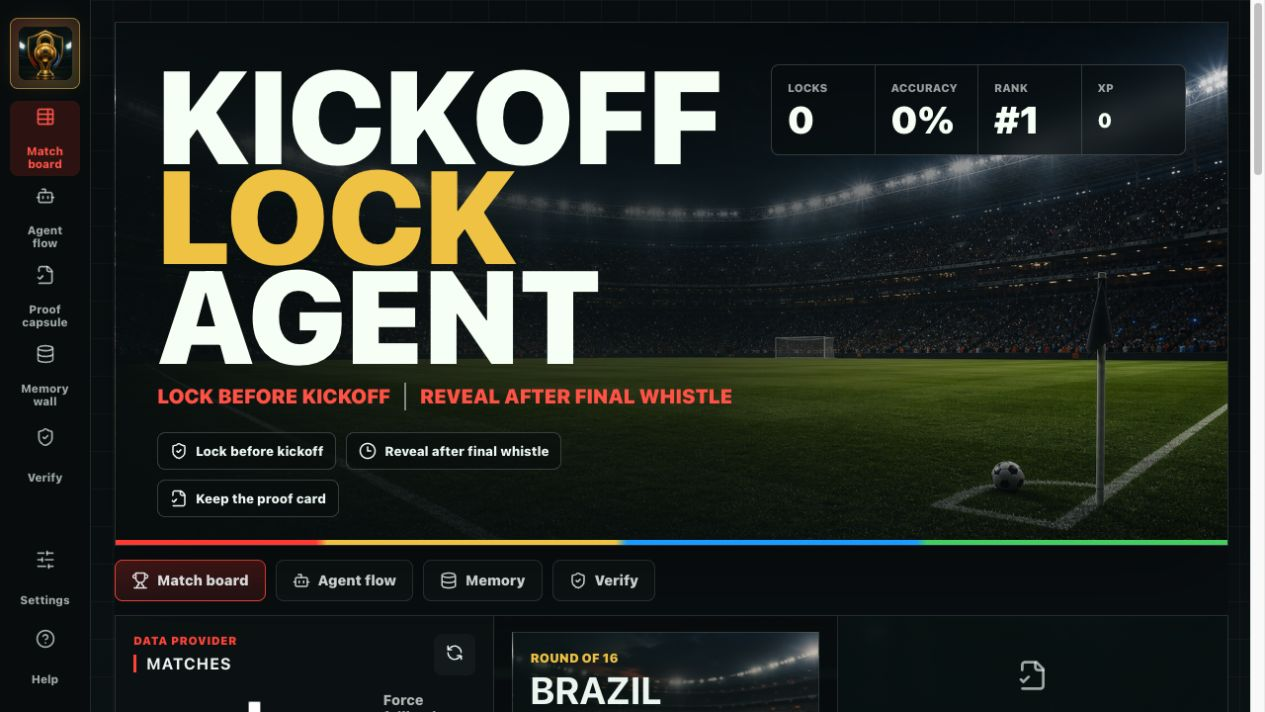
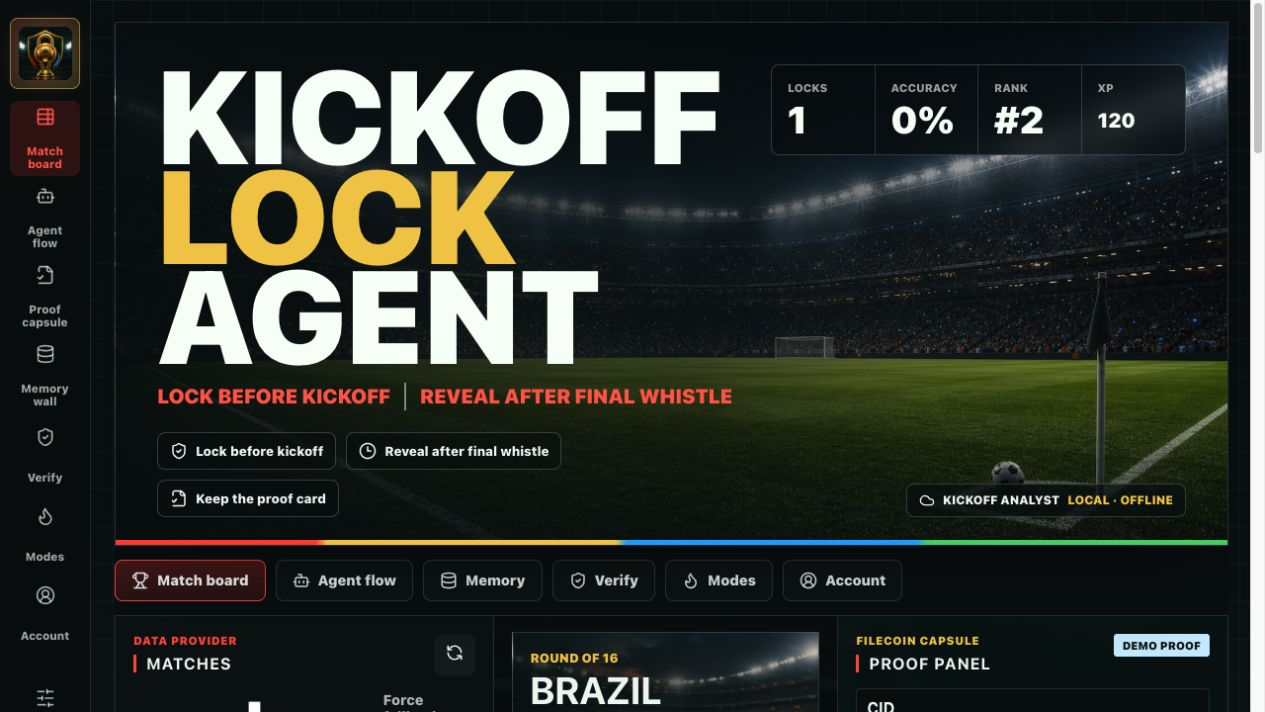
Deploy cloud sync and proof workflows

diff --git a/index.html b/index.html
@@ -11,8 +11,8 @@
     <link rel="apple-touch-icon" href="assets/kickoff-lock-icon.png" />
     <meta property="og:image" content="assets/kickoff-lock-icon.png" />
     <title>Kickoff Lock Agent</title>
-    <script type="module" crossorigin src="/kickoff-lock-agent/assets/index-D0I4QlqO.js"></script>
-    <link rel="stylesheet" crossorigin href="/kickoff-lock-agent/assets/index-8Ftqyda8.css">
+    <script type="module" crossorigin src="/kickoff-lock-agent/assets/index-DDiqgR4w.js"></script>
+    <link rel="stylesheet" crossorigin href="/kickoff-lock-agent/assets/index-D7qo0IAJ.css">
   </head>
   <body>
     <div id="root"></div>

diff --git a/assets/index-D7qo0IAJ.css b/assets/index-D7qo0IAJ.css
@@ -1,0 +1,1 @@
+:root{font-family:Inter,ui-sans-serif,system-ui,-apple-system,BlinkMacSystemFont,Segoe UI,sans-serif;color:#eef7f3;background:#03080a;font-synthesis:none;text-rendering:optimizeLegibility;-webkit-font-smoothing:antialiased}*{box-sizing:border-box}body{margin:0;min-width:320px;min-height:100vh;background:linear-gradient(90deg,rgba(255,255,255,.035) 1px,transparent 1px),linear-gradient(180deg,rgba(255,255,255,.035) 1px,transparent 1px),linear-gradient(180deg,#050b0e,#071415 44%,#03080a);background-size:38px 38px,38px 38px,auto}button,input,textarea{font:inherit}button{border:0;cursor:pointer}button:disabled,input:disabled,textarea:disabled{cursor:not-allowed;opacity:.54}h1,h2,h3,p{margin-top:0}h1{display:grid;gap:0;max-width:760px;margin-bottom:18px;font-size:clamp(4rem,10.4vw,10.2rem);font-weight:950;line-height:.76;letter-spacing:0;text-transform:uppercase}h1 span:nth-child(2){color:#f1c94d}h2{margin-bottom:0;font-size:1.02rem;line-height:1.08;letter-spacing:.06em;text-transform:uppercase}h3{margin-bottom:8px}.shell{position:relative;width:min(1680px,100%);min-height:100vh;margin:0 auto;padding:22px 22px 22px 116px}.side-rail{position:fixed;z-index:20;top:0;bottom:0;left:max(0px,calc((100vw - 1680px)/2));width:92px;display:grid;grid-template-rows:auto repeat(7,auto) 1fr repeat(2,auto);gap:4px;padding:18px 10px;border-right:1px solid rgba(238,247,243,.12);background:#03080aeb;-webkit-backdrop-filter:blur(18px);backdrop-filter:blur(18px)}.rail-mark{display:grid;place-items:center;height:72px;margin-bottom:8px;border:1px solid rgba(241,201,77,.5);border-radius:8px;background:linear-gradient(135deg,#d2372e33,#f1c94d1f),#0a1416;color:#f1c94d}.rail-mark img{width:54px;height:54px;border-radius:8px;object-fit:cover;box-shadow:0 0 22px #f1c94d38}.side-rail button{display:grid;place-items:center;gap:7px;min-height:76px;border-radius:8px;background:transparent;color:#eef7f3ad;font-size:.72rem;font-weight:800}.side-rail button.active,.side-rail button:hover{background:#d2372e2e;color:#ff5b4e}.rail-spacer{min-height:20px}.hero{position:relative;display:grid;grid-template-columns:minmax(0,1fr) 420px;gap:24px;align-items:end;min-height:350px;padding:42px 42px 28px;overflow:hidden;color:#f7fff6;background-size:cover;background-position:center;border:1px solid rgba(238,247,243,.14);border-radius:0;box-shadow:0 28px 90px #0000005c}.hero:after{position:absolute;inset:auto 0 0;height:5px;background:linear-gradient(90deg,#ff4038,#ff4038 18%,#f1c94d 19%,#f1c94d 45%,#1aa6ff 46%,#1aa6ff 72%,#4fd36d 73%,#4fd36d);content:""}.hero-copy-block,.hero-panel{position:relative;z-index:1}.cloud-strip{position:absolute;right:42px;bottom:28px;z-index:1;display:inline-flex;align-items:center;gap:8px;min-height:34px;padding:8px 12px;border:1px solid rgba(238,247,243,.18);border-radius:8px;background:#03080ab8;color:#eef7f3;font-size:.76rem;font-weight:900;text-transform:uppercase}.cloud-strip b{color:#f1c94d}.hero-copy{display:flex;flex-wrap:wrap;align-items:center;gap:14px;margin-bottom:0;color:#ff5b4e;font-size:clamp(1rem,1.8vw,1.28rem);font-weight:950;line-height:1.2;text-transform:uppercase}.hero-copy i{width:2px;height:28px;background:#eef7f380}.hero-copy:after{color:#22b9ff}.hero-signals{display:flex;flex-wrap:wrap;gap:10px;margin-top:22px}.hero-signals span{display:inline-flex;align-items:center;gap:8px;min-height:38px;padding:8px 12px;border:1px solid rgba(238,247,243,.2);border-radius:8px;background:#03080aa3;color:#eef7f3;font-size:.82rem;font-weight:850}.hero-panel{align-self:start;display:grid;grid-template-columns:repeat(4,minmax(0,1fr));overflow:hidden;border:1px solid rgba(238,247,243,.18);border-radius:8px;background:#03080ab8;-webkit-backdrop-filter:blur(14px);backdrop-filter:blur(14px)}.hero-panel>div{display:grid;gap:7px;min-width:0;padding:16px;border-right:1px solid rgba(238,247,243,.16)}.hero-panel>div:last-child{border-right:0}.metric{font-size:clamp(1.65rem,3vw,2.45rem);font-weight:950;line-height:1}.source-metric{font-size:clamp(1rem,1.6vw,1.45rem);text-transform:capitalize}.label{color:#eef7f39e;font-size:.7rem;font-weight:900;text-transform:uppercase}.eyebrow{margin:0 0 8px;color:#ff4d40;font-size:.72rem;font-weight:950;letter-spacing:.04em;text-transform:uppercase}.tabs{display:flex;gap:10px;width:100%;max-width:100%;margin:0;padding:14px 0;overflow-x:auto;background:#050b0e}.tabs button,.actions button,.proof-panel button,.reveal-box button{display:inline-flex;align-items:center;justify-content:center;gap:8px;min-height:42px;padding:10px 16px;border:1px solid rgba(238,247,243,.14);border-radius:8px;background:#111b1d;color:#eef7f3;font-size:.9rem;font-weight:900}.tabs button{flex:0 0 auto;background:#0a1315eb}.tabs button.active{border-color:#ff4d40;background:linear-gradient(180deg,#d2372e52,#d2372e24);color:#fff}.notice,.warning{padding:12px 14px;margin-bottom:12px;border:1px solid rgba(241,201,77,.26);border-radius:8px;background:#141812f0;color:#f1c94d;font-weight:850}.warning{border-color:#ff4d404d;background:#2f0e0cf0;color:#ffb3ad}.workspace{display:grid;grid-template-columns:34% minmax(0,1fr) 35%;gap:0;align-items:stretch;border:1px solid rgba(238,247,243,.13);background:#071011}.panel{min-width:0;padding:18px;border:0;border-right:1px solid rgba(238,247,243,.13);border-radius:0;background:#071011f5;box-shadow:none}.panel:last-child{border-right:0}.panel-head{display:flex;align-items:flex-start;justify-content:space-between;gap:12px;margin-bottom:16px}.panel-head h2:before,.memory .panel-head h2:before{display:inline-block;width:3px;height:18px;margin-right:10px;background:#ff4d40;vertical-align:-3px;content:""}.icon-button{width:42px;height:42px;padding:0;border-radius:8px;background:#111b1d;color:#eef7f3}.toggle-row{display:flex;align-items:center;gap:8px;margin-bottom:14px;color:#eef7f3b8;font-size:.9rem;font-weight:850}.filter-row{display:grid;grid-template-columns:repeat(4,minmax(0,1fr));gap:6px;margin-bottom:14px}.filter-row button{min-height:34px;border:1px solid rgba(238,247,243,.12);border-radius:4px;background:#eef7f312;color:#eef7f3b3;font-size:.72rem;font-weight:950;text-transform:uppercase}.filter-row button.active{border-color:#f1c94d;background:#f1c94d29;color:#f1c94d}.empty-inline{margin:0;padding:14px;border:1px solid rgba(238,247,243,.12);color:#eef7f3a8}.match-list{display:grid;gap:10px;max-height:720px;overflow-y:auto;padding-right:4px}.match-card{width:100%;min-height:116px;display:grid;grid-template-columns:auto 1fr auto;align-content:center;align-items:center;gap:6px 12px;padding:14px;border:1px solid rgba(238,247,243,.14);border-radius:0;color:#eef7f3;text-align:left;background-size:cover;background-position:center;box-shadow:inset 0 -70px 90px #020809a3}.match-card.selected{outline:2px solid #f1c94d;border-color:#f1c94d}.match-card strong{grid-column:1 / -1;font-size:1.05rem;line-height:1.2;text-transform:uppercase}.match-card span:not(.status):not(.source){grid-column:1 / 3;color:#eef7f3b8;font-size:.86rem}.status,.source,.pill,.score-badge{width:fit-content;border-radius:3px;padding:5px 9px;font-size:.7rem;font-weight:950;text-transform:uppercase;background:#f1c94d;color:#14120a}.status.locked,.pill.demo{background:#cdeeff;color:#12394a}.status.revealed,.pill.real{background:#d8ffd9;color:#0e4d28}.status.finished,.late{background:#ffd6d1;color:#7a241c}.source{grid-column:3;background:#eef7f324;color:#eef7f3d1}.flow-panel{color:#eef7f3;background-size:cover;background-position:top center}.match-spotlight{min-height:126px;display:flex;align-items:end;justify-content:space-between;gap:16px;margin:-2px 0 18px;padding:18px;border:1px solid rgba(238,247,243,.14);border-radius:0;color:#eef7f3;background-size:cover;background-position:center}.match-spotlight span{display:block;margin-bottom:6px;color:#f1c94d;font-size:.8rem;font-weight:950;text-transform:uppercase}.match-spotlight strong{display:block;font-size:clamp(1.55rem,3vw,2.55rem);line-height:1;text-transform:uppercase}.match-spotlight b{flex:0 0 auto;padding:8px 10px;border:1px solid rgba(238,247,243,.22);border-radius:4px;background:#04100fb3}.scoreboard-lock{display:grid;grid-template-columns:minmax(0,1fr) 150px minmax(0,1fr);min-height:112px;margin-bottom:12px;border:1px solid rgba(238,247,243,.16);background:#03080ab3}.lock-window{display:grid;grid-template-columns:repeat(3,minmax(0,1fr));gap:10px;margin-bottom:14px}.lock-window>div{display:grid;grid-template-columns:auto 1fr;gap:4px 9px;align-items:center;padding:12px;border:1px solid rgba(238,247,243,.13);border-radius:4px;background:#03080aa8}.lock-window svg{grid-row:span 2;color:#f1c94d}.lock-window span{color:#eef7f399;font-size:.72rem;font-weight:950;text-transform:uppercase}.lock-window strong{min-width:0;color:#eef7f3;overflow-wrap:anywhere}.lock-closed,.lock-closing{border-color:#ff4d4047!important}.lock-closed strong,.lock-closing strong{color:#ffb3ad}.intel-panel,.market-builder{margin-bottom:14px;padding:14px;border:1px solid rgba(238,247,243,.13);background:#040e0fc7}.intel-head{display:flex;justify-content:space-between;gap:12px;margin-bottom:12px}.intel-head span{max-width:170px;color:#eef7f38a;font-size:.72rem;font-weight:850;text-align:right}.intel-grid{display:grid;grid-template-columns:repeat(2,minmax(0,1fr));gap:10px}.intel-grid>div{display:grid;gap:6px;padding:12px;border:1px solid rgba(238,247,243,.12);background:#eef7f30f}.intel-grid strong{color:#f1c94d;text-transform:uppercase}.intel-grid span,.intel-grid small,.intel-notes p{color:#eef7f3ad}.intel-grid b{color:#ff5b4e;letter-spacing:.08em}.intel-notes{display:grid;gap:8px;margin-top:10px}.intel-notes p{display:flex;gap:10px;margin:0}.intel-notes b{flex:0 0 58px;color:#22b9ff}.team-tile,.score-tile{display:grid;place-items:center;padding:14px;text-align:center;font-weight:950;text-transform:uppercase}.team-tile.home{background:linear-gradient(90deg,#d2372ed1,#d2372e47)}.team-tile.away{background:linear-gradient(90deg,#1aa6ff47,#1aa6ffcc)}.score-tile{border-inline:1px solid rgba(238,247,243,.16)}.score-tile strong{font-size:2.05rem}.score-tile span{color:#ff4d40;font-size:.78rem}.agent-tabs{display:grid;grid-template-columns:repeat(3,1fr);margin-bottom:14px;border:1px solid rgba(238,247,243,.13)}.agent-tabs span{padding:10px;color:#eef7f38c;text-align:center;font-size:.76rem;font-weight:950;text-transform:uppercase}.agent-tabs .active{color:#ff4d40;border-bottom:2px solid #ff4d40}.market-builder .panel-head{margin-bottom:10px}.market-grid{display:grid;grid-template-columns:repeat(2,minmax(0,1fr));gap:10px}.market-grid article{padding:12px;border:1px solid rgba(238,247,243,.12);background:#eef7f30f}.market-grid textarea{min-height:76px}label{display:grid;gap:7px;margin-bottom:12px;font-weight:850}label span{color:#eef7f3b3;font-size:.86rem}textarea,input{width:100%;min-width:0;border:1px solid rgba(238,247,243,.16);border-radius:4px;background:#03080ab3;color:#eef7f3;padding:12px;outline:none}textarea:focus,input:focus{border-color:#1aa6ff;box-shadow:0 0 0 3px #1aa6ff2e}textarea{min-height:112px;resize:vertical}input[type=range]{padding:0;accent-color:#ff4d40}.agent-grid{display:grid;grid-template-columns:1.1fr .9fr;gap:14px}.score-inputs{display:grid;grid-template-columns:repeat(2,minmax(0,1fr));gap:12px}.score-inputs label:last-child{grid-column:1 / -1}.actions{display:flex;flex-wrap:wrap;gap:10px;margin-top:14px}.primary{min-height:54px!important;background:linear-gradient(180deg,#e8463c,#b82721)!important;box-shadow:0 12px 28px #d2372e57;text-transform:uppercase}.reveal-box{margin-top:18px;padding:16px;border:1px solid rgba(238,247,243,.14);border-radius:0;background:#0b1c17d1}.score-badge{font-size:1rem;background:#f1c94d}.breakdown{display:flex;flex-wrap:wrap;gap:8px;margin-top:12px}.breakdown span{padding:7px 9px;border-radius:4px;background:#eef7f31f;font-weight:850}.breakdown p{width:100%;margin:0;color:#eef7f3bd}.agent-review{width:100%;display:grid;gap:7px;margin-top:6px;padding:12px;border:1px solid rgba(241,201,77,.22);background:#f1c94d14}.agent-review strong{color:#f1c94d}.agent-review p{color:#eef7f3c7}.proof-panel{color:#eef7f3;background-size:cover;background-position:center}.proof-panel .eyebrow,.proof-panel label span,.proof-panel summary{color:#f1c94d}.proof-panel .pill{color:#0b1614}.proof-lines{display:grid;gap:8px}.proof-lines p{display:grid;gap:4px;margin:0;padding:10px;border:1px solid rgba(238,247,243,.12);border-radius:4px;background:#03080aad}.proof-lines span,code{overflow-wrap:anywhere;font-family:SFMono-Regular,Consolas,monospace;font-size:.8rem}.proof-card{margin:16px 0;padding:18px;border:1px solid rgba(241,201,77,.42);border-radius:0;background:linear-gradient(135deg,#fffcebf5,#ffeecceb),#fff7dc;color:#121814;box-shadow:0 16px 38px #00000042}.proof-card-top,.versus{display:flex;justify-content:space-between;gap:10px}.proof-card-top span{padding:5px 8px;border-radius:4px;background:#d2372e1f;color:#9e2d24;font-size:.78rem;font-weight:950}.proof-card h3{margin:16px 0;font-size:1.6rem;text-transform:uppercase}.versus>div{flex:1;padding:12px;border:1px solid rgba(17,28,25,.12);border-radius:4px;background:#ffffff94}.versus small,.proof-card p{color:#111c19ad}.versus strong{display:block;margin-top:4px;font-size:1.55rem}.proof-card code{display:block;margin-top:14px;color:#0f5b33}.proof-markets{display:flex;flex-wrap:wrap;gap:7px;margin-bottom:12px}.proof-markets span{padding:6px 8px;border-radius:4px;background:#111c191a;color:#111c19c7;font-size:.76rem;font-weight:850}.proof-actions{display:grid;grid-template-columns:1fr;gap:8px}.seal-steps{display:grid;gap:8px;margin-top:14px;padding:12px;border:1px solid rgba(238,247,243,.13);background:#03080aa3}.seal-steps article{display:grid;grid-template-columns:auto minmax(0,1fr) auto;gap:10px;align-items:center;padding:10px;border:1px solid rgba(238,247,243,.1);background:#eef7f30f}.seal-steps strong,.seal-steps b{color:#f1c94d}.seal-steps span{display:block;margin-top:3px;color:#eef7f39e;font-size:.78rem}.share-preview{display:grid;gap:10px;margin-top:14px;padding:12px;border:1px solid rgba(241,201,77,.22);background:#f1c94d14}.share-preview a{display:inline-flex;align-items:center;gap:7px;color:#f1c94d;font-size:.8rem;font-weight:950;text-decoration:none}.share-preview img{display:block;width:100%;border:1px solid rgba(238,247,243,.16)}.proof-panel textarea,.proof-panel input{border-color:#eef7f333;background:#03080ab8}details{margin-top:12px}summary{cursor:pointer;font-weight:950}pre{max-width:100%;max-height:260px;overflow:auto;overflow-wrap:anywhere;padding:12px;border-radius:4px;background:#03080a;color:#bdf28c;font-size:.78rem}.empty{display:grid;place-items:center;min-height:260px;text-align:center;color:#eef7f3a8}.memory{margin-top:16px;border:1px solid rgba(238,247,243,.13)}.memory-hero{min-height:210px;display:flex;align-items:end;margin-bottom:18px;padding:20px;border:1px solid rgba(238,247,243,.14);border-radius:0;color:#eef7f3;background-size:cover;background-position:center}.memory-hero span{display:block;margin-bottom:8px;color:#f1c94d;font-size:.8rem;font-weight:950;text-transform:uppercase}.memory-hero strong{display:block;max-width:620px;font-size:clamp(1.8rem,4vw,3.5rem);line-height:.95;text-transform:uppercase}.memory-stats{display:grid;grid-template-columns:repeat(3,minmax(0,1fr));gap:12px;margin-bottom:16px}.memory-stats div{display:grid;gap:4px;padding:14px;border:1px solid rgba(238,247,243,.12);border-radius:4px;background:#eef7f314}.memory-stats strong{font-size:2rem}.memory-list{display:grid;gap:10px}.leaderboard{display:grid;gap:8px;margin-bottom:16px;padding:14px;border:1px solid rgba(238,247,243,.12);background:#03080a80}.leaderboard article{display:grid;grid-template-columns:48px 1fr auto;gap:10px;align-items:center;padding:10px;border:1px solid rgba(238,247,243,.1);background:#eef7f30f}.leaderboard b,.leaderboard strong{color:#f1c94d}.verify,.modes,.account{margin-top:16px;border:1px solid rgba(238,247,243,.13)}.mode-grid,.account-grid{display:grid;grid-template-columns:repeat(2,minmax(0,1fr));gap:14px}.mode-grid article,.profile-card,.cloud-card,.mode-rules{padding:16px;border:1px solid rgba(238,247,243,.12);background:#eef7f312}.mode-top{display:flex;justify-content:space-between;gap:12px;margin-bottom:12px}.mode-grid h3,.cloud-card h3{color:#f1c94d;text-transform:uppercase}.mode-grid p,.cloud-card p,.mode-rules p{color:#eef7f3b8}.progress-track{height:8px;overflow:hidden;margin:16px 0 8px;border-radius:99px;background:#eef7f31f}.progress-track span{display:block;height:100%;background:linear-gradient(90deg,#ff4d40,#f1c94d,#1aa6ff)}.mode-grid small{display:block;margin-top:8px;color:#eef7f399}.mode-rules{margin-top:14px}.profile-card,.cloud-card{display:grid;gap:12px}.schema-note{display:grid;gap:7px;padding:12px;border:1px solid rgba(241,201,77,.2);background:#f1c94d14}.schema-note strong{color:#f1c94d}.verify-grid{display:grid;grid-template-columns:minmax(0,1fr) .85fr;gap:14px;min-width:0}.verify-card,.verify-checks{min-width:0;padding:14px;border:1px solid rgba(238,247,243,.12);background:#eef7f312}.verify-card:last-child{grid-column:1 / -1}.verify-card h3{color:#f1c94d;text-transform:uppercase}.verify-checks{display:grid;gap:8px}.verify-checks article{display:grid;grid-template-columns:auto minmax(0,1fr) auto;min-width:0;gap:10px;align-items:center;padding:10px;border:1px solid rgba(216,255,217,.13);background:#d8ffd912}.verify-checks svg,.verify-checks strong{color:#74ed88}.verify-card code,.verify-checks span{max-width:100%;overflow-wrap:anywhere;word-break:break-word}.verify-card code{display:block;margin-top:10px}.memory-list article{display:flex;gap:10px;align-items:flex-start;padding:12px;border:1px solid rgba(238,247,243,.12);border-radius:4px;background:#eef7f314}.memory-list span{display:block;margin-top:4px;color:#eef7f3a6}@media(max-width:1180px){.shell{padding-left:104px}.hero,.workspace{grid-template-columns:1fr}.hero-panel{grid-template-columns:repeat(4,minmax(0,1fr))}.panel{border-right:0;border-bottom:1px solid rgba(238,247,243,.13)}.match-list{max-height:none;grid-template-columns:repeat(2,minmax(0,1fr))}}@media(max-width:720px){.shell{padding:12px}.side-rail{display:none}.hero,.panel{padding:16px}.hero{min-height:620px;align-items:end}.hero-panel,.agent-grid,.score-inputs,.match-list,.memory-stats,.lock-window,.intel-grid,.market-grid,.verify-grid,.mode-grid,.account-grid,.scoreboard-lock{grid-template-columns:1fr}.cloud-strip{position:relative;right:auto;bottom:auto;margin-top:14px}.hero-copy i{display:none}.match-spotlight,.proof-card-top,.versus,.actions{flex-direction:column}.tabs button{min-width:132px}}